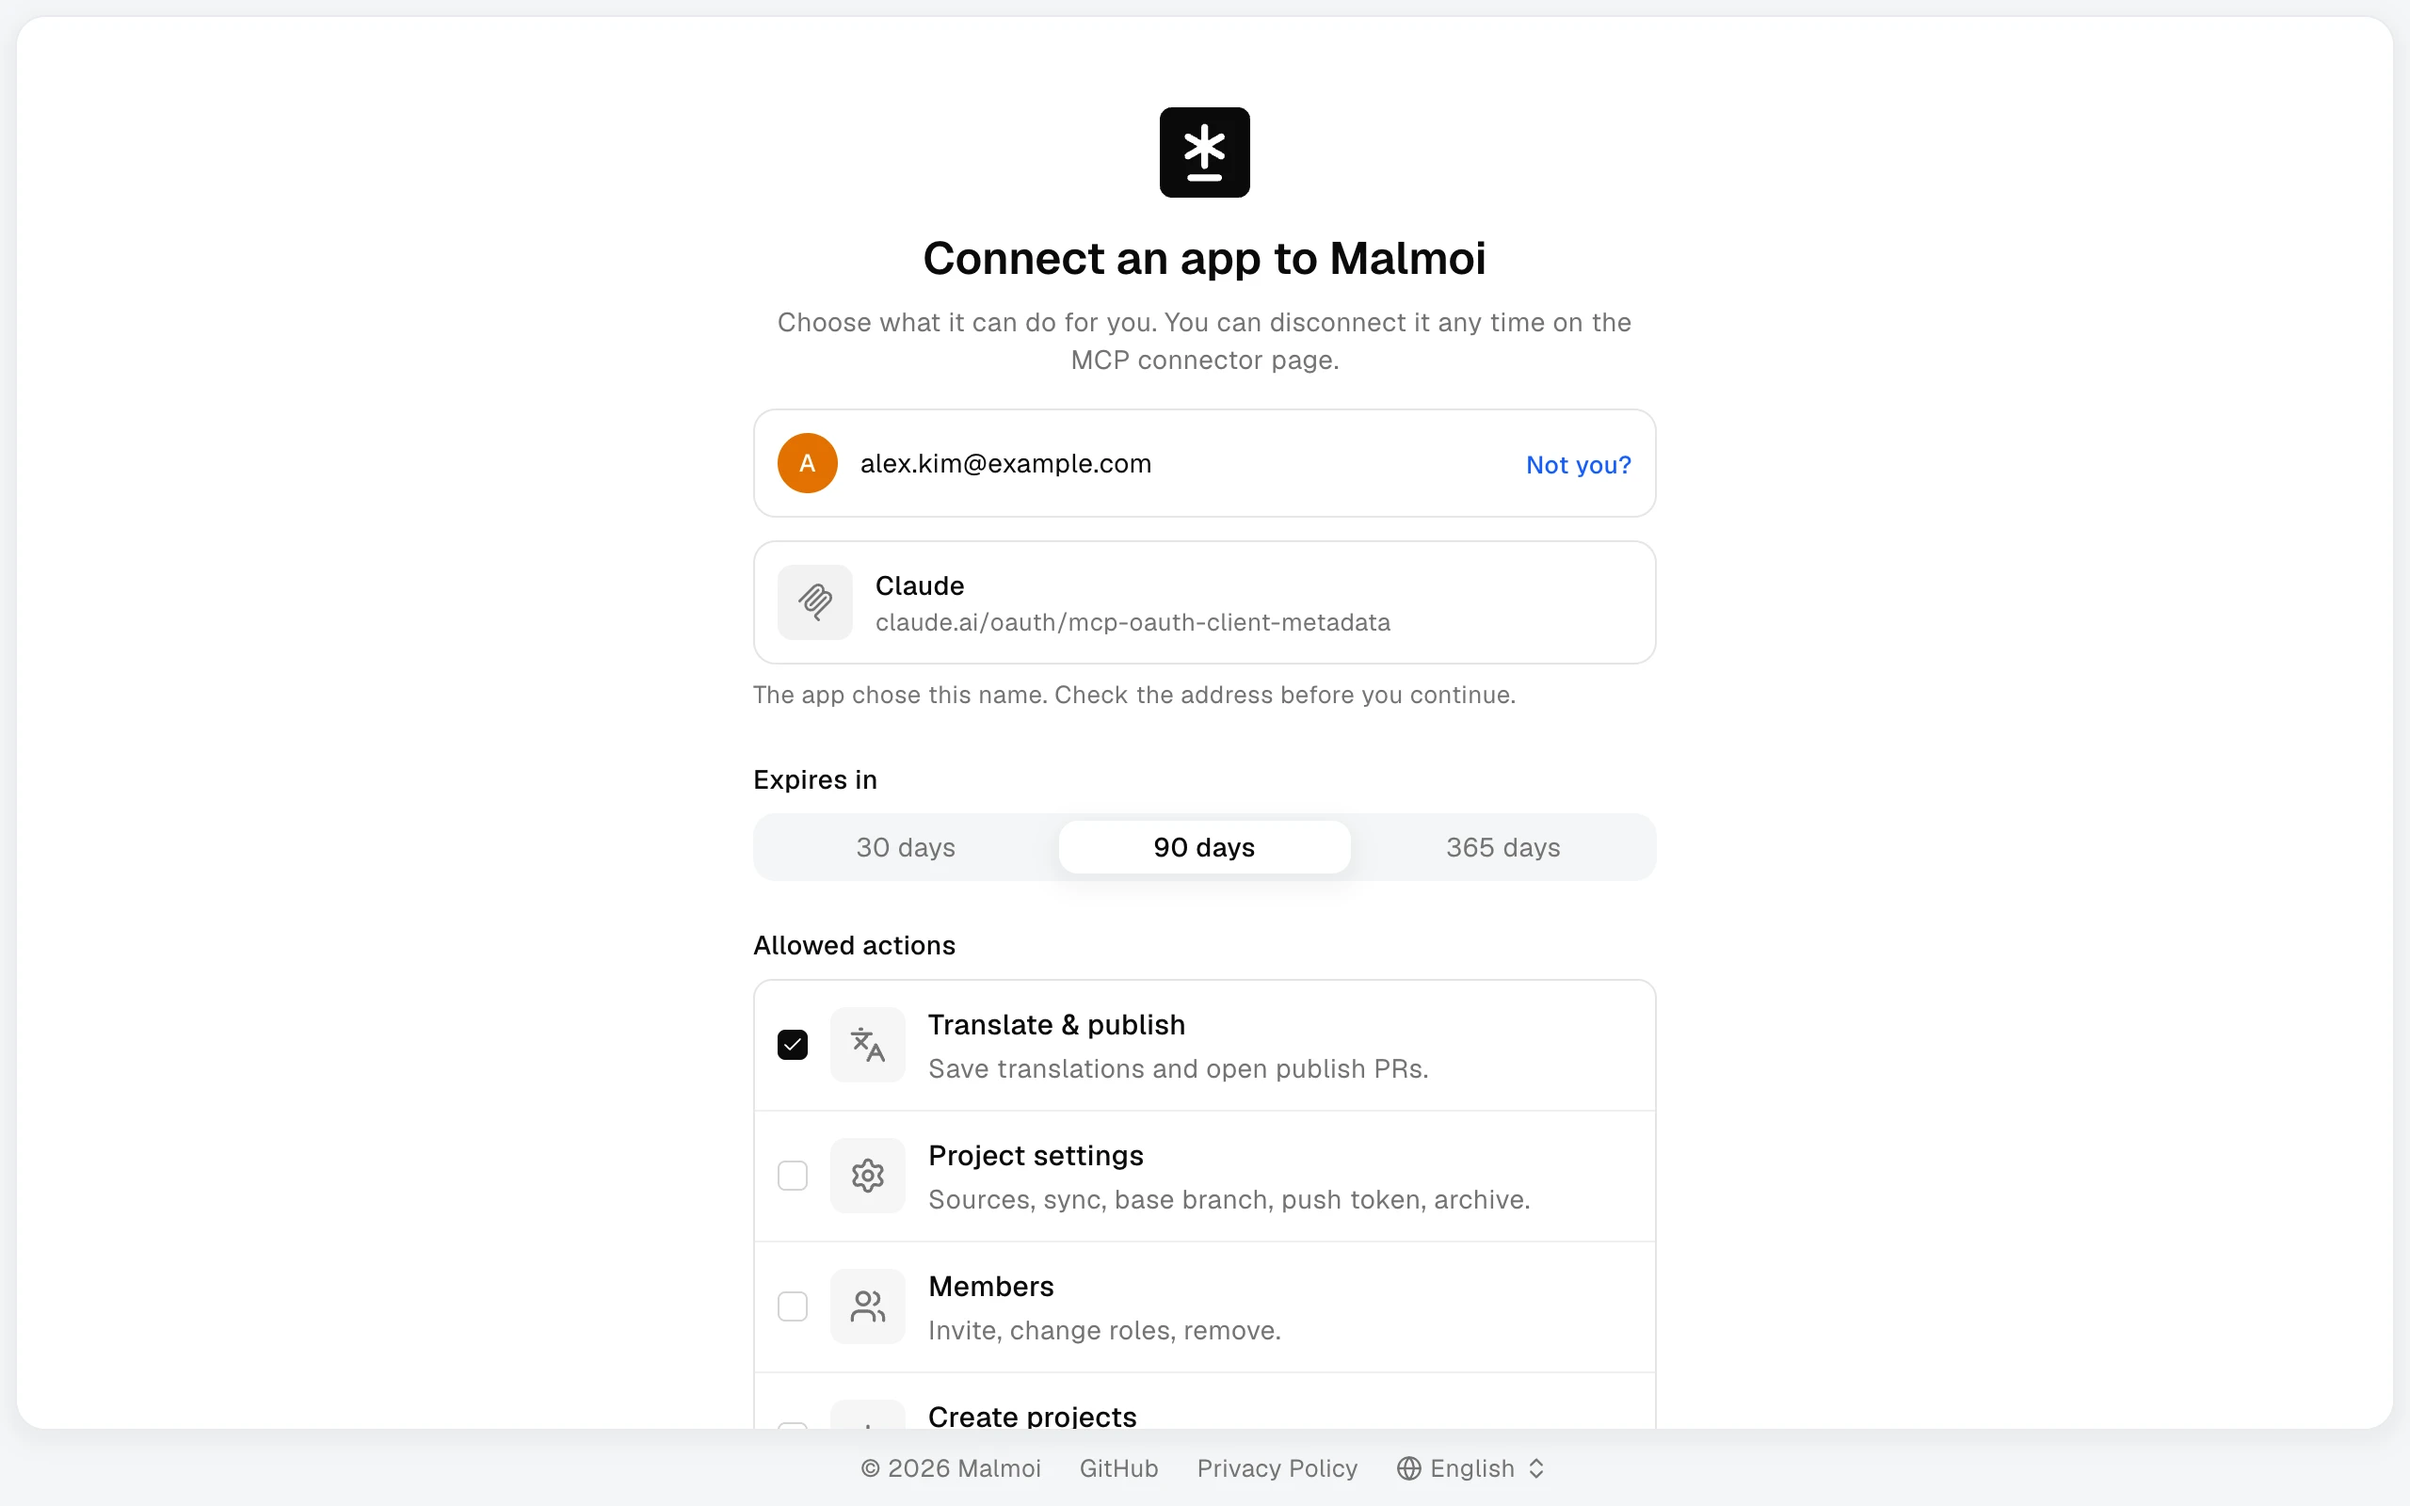
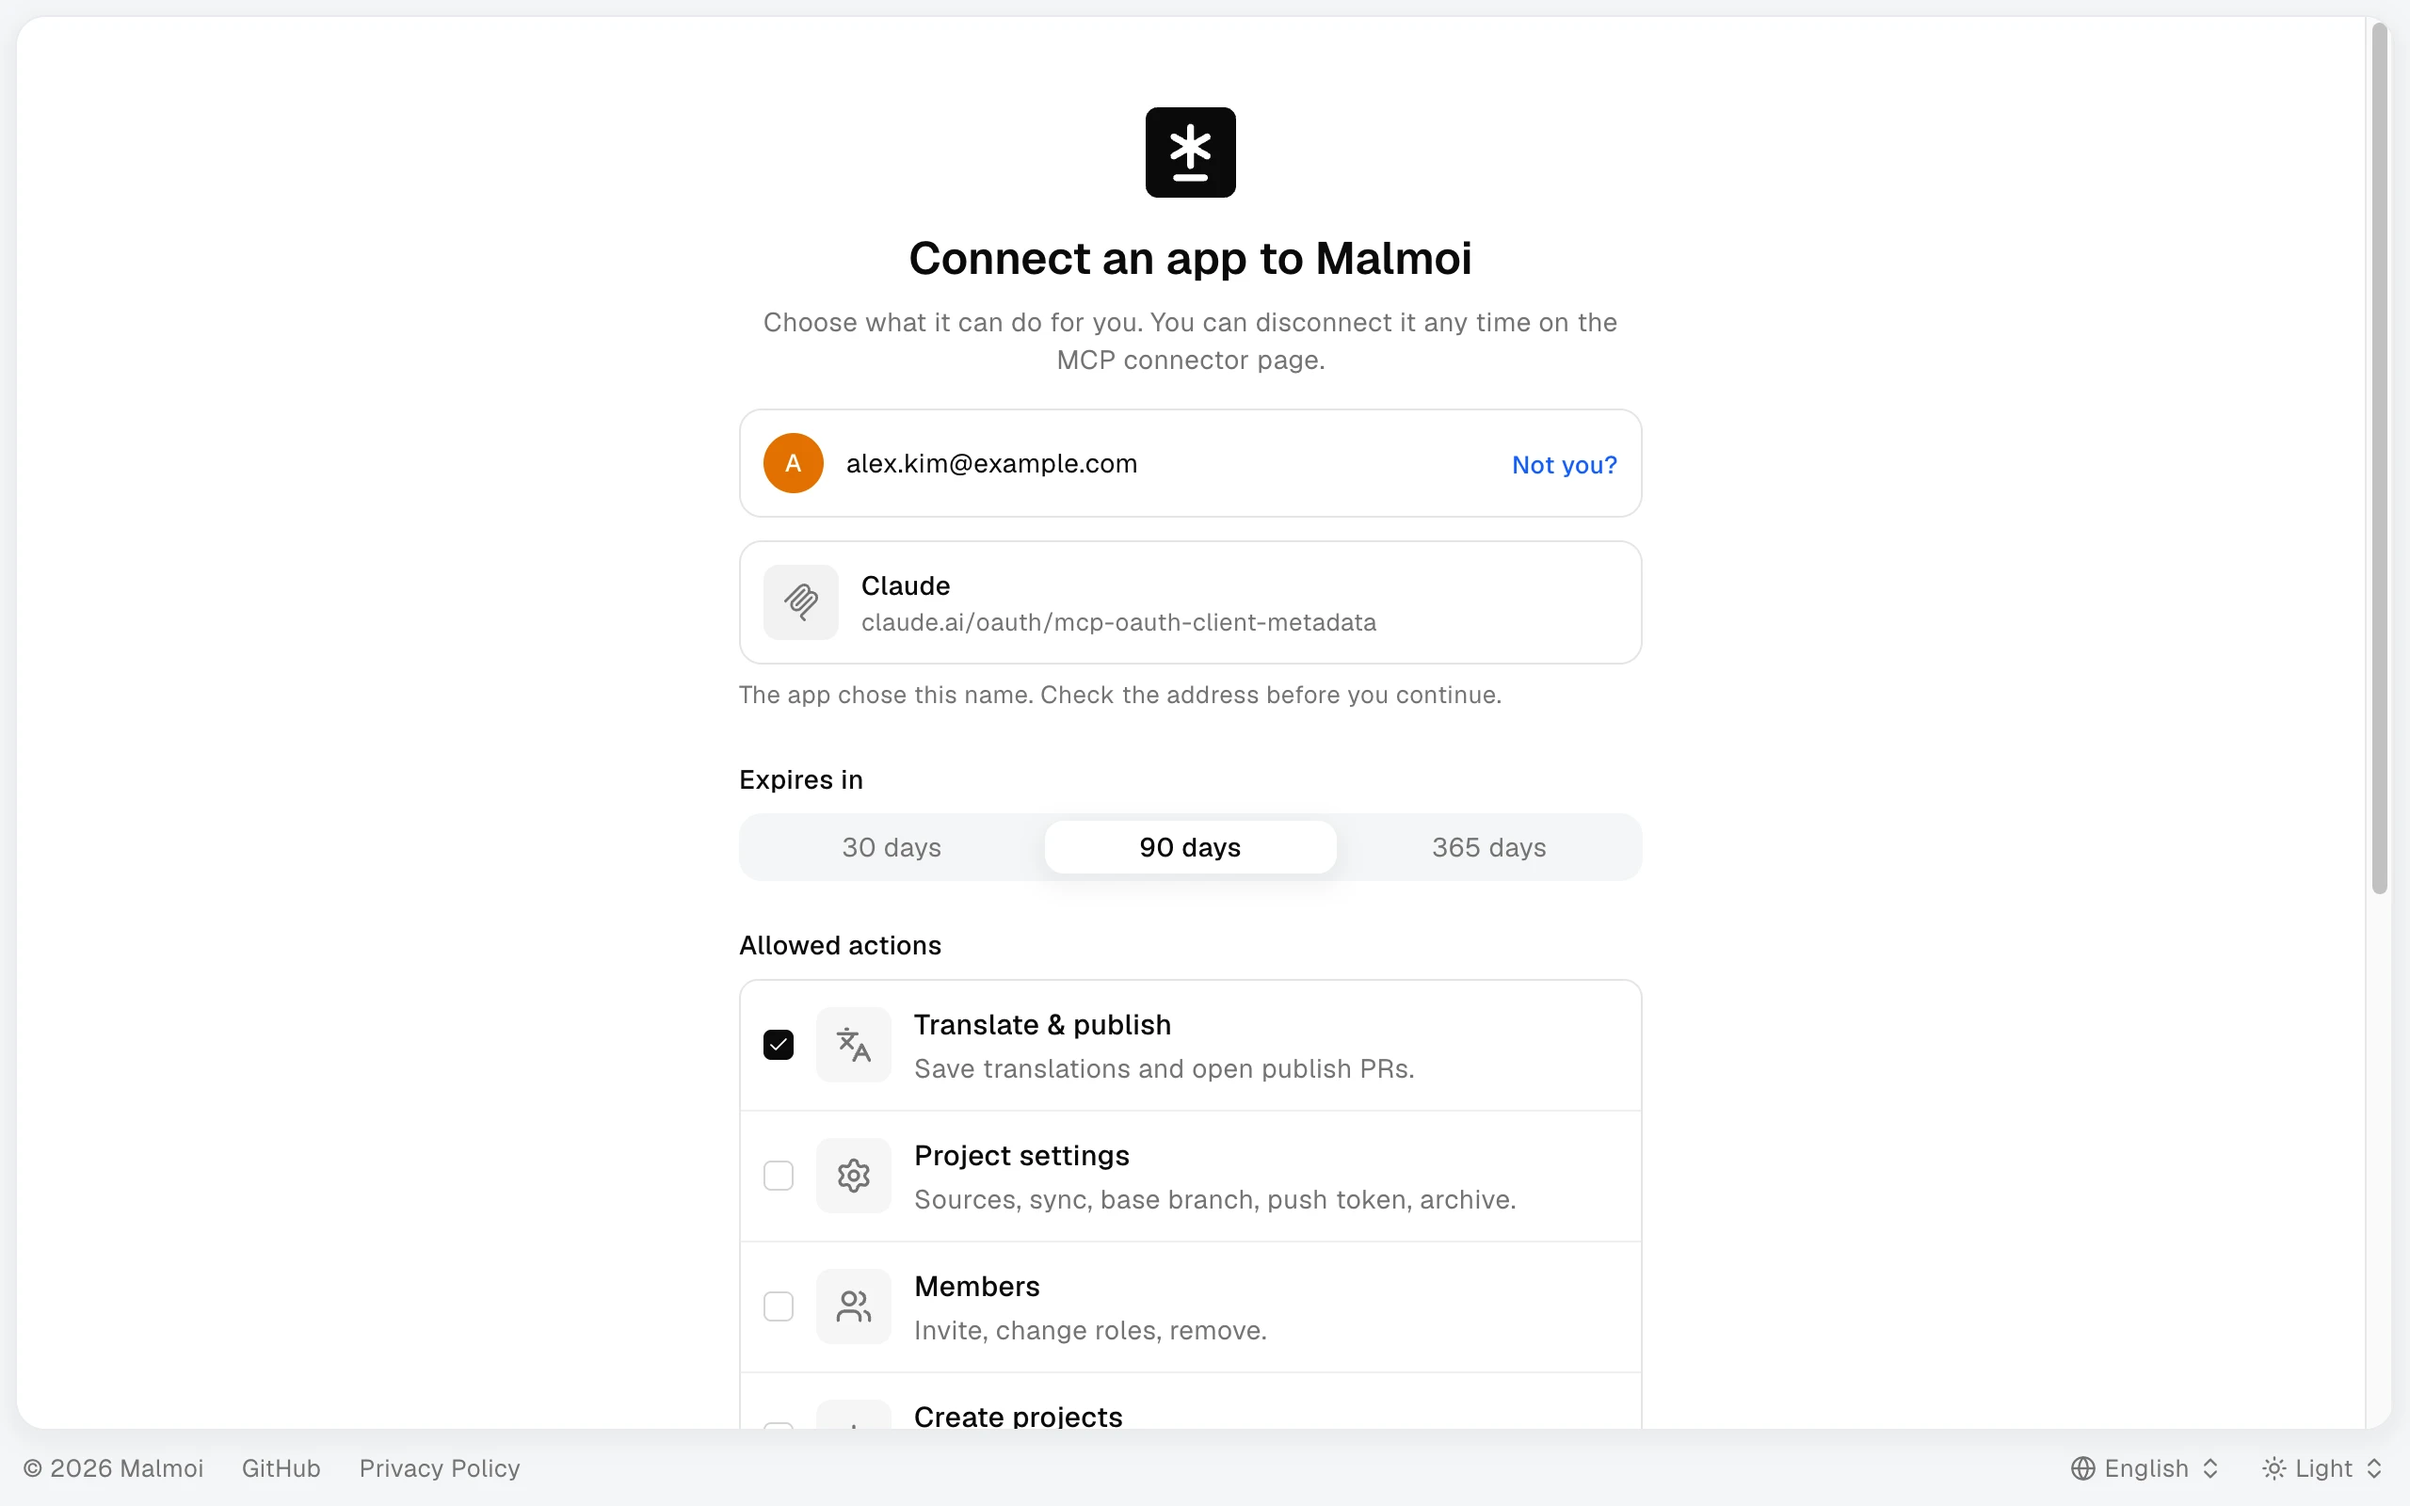
chore(guide): retake oauth-consent shot
The previous cut predated the public footer theme switcher; the new one
matches 3a1afe68 pixel for pixel at 1280x800.

diff --git a/guide/SHOOTING.md b/guide/SHOOTING.md
@@ -145,7 +145,7 @@
 | /guide/preferences-language.webp | app/(edit)/preferences/page.tsx, components/preferences/language-card.tsx, components/preferences/time-zone-card.tsx, components/preferences/preference-select-card.tsx, components/preferences/theme-card.tsx, dict:uiLocale.label, dict:preferences.help | ba45481f1bad944a5b4582d56b5ea6e84e141d6e, 35fad581fb2f5b7b9ab4b854151513f55fa608bd, e89003ad1ccfc47db86ab5c6afc09e6f95d6aefb, 8c375c527167fc1b4975c5f24916dea854f41f2e, 083ee9575152faf792fed1a0abfa5e105a670c46, 89b86ab0e66f527166d98df92ddbcf5416ed58f6, 7a750458e565a71d07b3e10a45654499a58c2673 | 2560x1600 |
 | /guide/mcp-create-token.webp | components/mcp/token-modal.tsx, components/mcp/token-grant-fields.tsx | c96820a9c8869d021052c5873b0404cfc8e3e7b4, ad7e6129db1f932a7d9ef42b0d18756abe81552f | 2560x1600 |
 | /guide/mcp-connector.webp | components/mcp/connected-apps-card.tsx, components/mcp/token-card.tsx | 369d43ab9dd9dc50045d250315813c6dba07c0ea, 0f417f11f0c5c8dc43c709919590561c6e74cf8d | 2560x1600 |
-| /guide/oauth-consent.webp | app/oauth/authorize/page.tsx, components/oauth/consent-panel.tsx, components/oauth/app-card.tsx, components/mcp/token-grant-fields.tsx | 73741761830f79061e3c209455b926c561aa3518, 094cd617e29acf6e4428fa6caf567e2c6d826556, f84a8047e035ed76fe1411941a3c8086844c4455, ad7e6129db1f932a7d9ef42b0d18756abe81552f | 2560x1600 |
+| /guide/oauth-consent.webp | app/oauth/authorize/page.tsx, components/oauth/consent-panel.tsx, components/oauth/app-card.tsx, components/mcp/token-grant-fields.tsx | e838a660b030cfd1a10c80729ef68068e3449581, 6dbe67b7adc44b561d2d6eda73322f83e93e8cae, f84a8047e035ed76fe1411941a3c8086844c4455, ad7e6129db1f932a7d9ef42b0d18756abe81552f | 2560x1600 |
 | /guide/create-repository.webp | components/onboarding/new-project.tsx, components/onboarding/steps/repo.tsx | 303e1a6bbb4e299066db1effde59319a49b307a6, 43919601691a4bebe755a3d855d65ab6ef213059 | 2560x1600 |
 | /guide/create-files.webp | components/onboarding/new-project.tsx, components/onboarding/steps/files.tsx | 303e1a6bbb4e299066db1effde59319a49b307a6, ff459d94bea6ac9e53516e39b98c4235cbc8a6d4 | 2560x1600 |
 | /guide/create-name.webp | components/onboarding/new-project.tsx, components/onboarding/steps/naming.tsx | 303e1a6bbb4e299066db1effde59319a49b307a6, f6f81681dddbc2e660011c6f91fe10711766473b | 2560x1600 |
@@ -205,3 +205,4 @@
 - 2026-10-09 sidebar-projects G(프로젝트 밖 화면의 LNB에 프로젝트 목록 구역 — 앞 5개 + `New project`, 지휘자 결정 D8) — **프로젝트 밖 컷 9장 재촬영**: `account` · `preferences-language` · `mcp-connector`(OWNER) · `create-repository` · `create-files` · `create-name` · `create-ready`(OWNER, `/projects/new`의 Dim 뒤 셸) · `inbox-page` · `mcp-create-token`(EDITOR). **재촬영 없이 SHA만 갱신 2**: `inbox-open`(`attention-inbox.tsx`가 `LiveStatus`를 `components/shell/live-status.tsx`로 옮긴 리팩터 — 드롭다운 화면 불변이고 프로젝트 라우트에서 찍은 컷이라 이번 변경 밖) · `footer-language-menu`(`locale-switcher.tsx` 주석 한 줄 — 둘 다 이번 변경 전의 기존 stale). **그대로 둔 것**: 프로젝트 라우트 컷 전부와 README `hero`·`logs`(프로젝트 라우트는 불변 — 완료 조건 6), `push-token-secret`·`actions-policy`(GitHub 화면), `accept-invitation`·`oauth-consent`(셸 밖), `footer-language-menu`(공개 셸, LNB 없음). 매핑 소스·치수는 그대로다(셸은 소스로 올리지 않는다 — 위 규칙). 셋업: OWNER 계정 테마 `dark` → UI로 `system` + `prefers-color-scheme: light` 에뮬레이션 → 끝나고 UI로 `dark` 복원 · 마스킹은 위 목록 구역 규칙 + 기존 OWNER/EDITOR 치환 · `mcp-connector`는 가짜 `OAuthConnection` 행 둘(id `sp-gs-*`) → 촬영 뒤 삭제(0→0) · `create-ready`는 벽 절 절차대로 일회용 프로젝트(`i18n-format-check` · dev · `locales/{locale}.yml` · `Acme web`/`sp-shot-tmp`)를 UI로 만들어 토큰 input을 43자 가짜 값으로 바꾸고 `api-url` 1줄 제거 · `group:`의 주소를 `acme-web`으로 치환해 찍은 뒤 id(`d5c0a16a-…`)로 지웠다(사건 3 · 번역 28 · 키 10 · 로케일 3 · 멤버 1 · 표면 1 · 프로젝트 1; 일회용 slug는 `malmoi` 뒤에 정렬돼 목록 구역 앞 5개에 들지 않았다) · `create-*` ①–③은 Create project를 누르지 않았다(운영자 면제로 `/projects/new` 직접 진입) · `inbox-page`는 `bugshot-i18n-test-qa`의 `_locales`에 `import-failed`(now) · `namespaces`에 `partial-import`(2h 전)를 심고 EDITOR `checkout.submit` fr `Passer la commande`를 저장한 뒤 `attentionSeenAt`을 NULL로 두고 찍었다 → 표시 NULL 복원 · 값을 빈 칸으로 재저장 → Publish(`Nothing differs` → `Nothing changed in the files`) · EDITOR `attentionSeenAt` `2026-10-08 17:31:53.465`(`::text` 원문) → NULL → 같은 원문으로 복원. 전후 대조: 미전달 `qa-sar-disposable` 1(원래 있던 것) 외 0, OAuth 연결 0→0, 프로젝트 9→9, 미수락 초대 16(이번 세션에 만들지 않았다), `TranslationSurface` 실패 표시 전부 NULL, 전체 사건 681→684·`acme-web` 55→58(편집·재저장·Publish), 나머지 프로젝트 사건 그대로, GitHub 쓰기 없음. 로그인 전환: OWNER(GitHub) 세션 → 로그아웃 → Google 계정 선택 화면에서 EDITOR → 촬영 → 로그아웃 → GitHub `Continue as`로 OWNER 복귀. ⚠ **새로 밟은 것**: ① 목록 구역의 썸네일 이미지 둘은 `<img>`라 텍스트 치환이 못 바꾼다 — 기본 타일로 갈아 끼운다. ② 목록 구역 이름은 `truncate`라 긴 QA 이름은 치환 전 말줄임표로 그려진다 — 치환 이름이 짧아 컷엔 안 보인다. ③ 사이드바 Projects 배지는 보관 제외 전체 수(OWNER 9, EDITOR 2)이고 구역은 앞 5개만 보인다 — 그대로 찍었다. ④ `inbox-page`의 실패 행(`extension` 그룹)이 맨 위에 서려면 실패 시각이 미전송 편집 저장보다 **늦어야** 한다 — 심기를 편집 저장 뒤에 한다(앞에 심으면 Acme web 그룹이 위로 올라간다). ⑤ `.env.local`을 읽는 DB 스크립트(`sql.mjs`·`fail-seed.mjs`)는 리포 루트에서 돌린다(경로 상대).
 - 2026-10-10 optional-login-providers — `account`·`accept-invitation`·`oauth-consent` **SHA만 갱신**(재촬영 없음). 버튼·수단 행이 켜진 공급자로 걸러지지만 hosted는 두 쌍이라 화면이 같다. `oauth-consent`도 SHA만 갱신했다(fix1) — 동의 단계 컷이고 바뀐 것은 로그인 단계 버튼(`signInButtons`)뿐이다.
 - 2026-10-11 responsive-public QA — `accept-invitation`·`inbox-open` **SHA만 갱신**(재촬영 없음). 이번 변경(`project-card.tsx` 식별자 줄바꿈 · `auth-layout.tsx` 좁은 폭 하한·장식 · `attention-inbox.tsx` `lg` 미만 시트·`aria-expanded`)은 1280에서 화면을 바꾸지 않는다 — 변경 전 커밋(`3a1afe68`)과 1280×800 렌더의 요소 rect·padding·색을 대조해 초대 화면 차이 0, Inbox 드롭다운 차이 0을 확인했다. ⚠ **`oauth-consent`는 그대로 stale로 둔다** — `consent-panel.tsx`의 sticky CTA가 1280에서도 서서 컷이 달라지는데(Deny·Authorize 묶음이 목록 위에 뜨고 그 아래로 마지막 행이 비친다), 그 모양을 1280 회귀로 이슈에 올렸다. 수정 뒤 재촬영한다.
+- 2026-10-11 responsive-public QA 재확인 1 — `oauth-consent` **재촬영**(2560×1600, WebP quality 90). #221 수정(동의 CTA sticky는 `lg` 미만만) 뒤 1280×800 동의 화면이 변경 전 커밋 `3a1afe68`과 **픽셀 차이 0**이라 이번 런이 바꾼 화면은 없다. 그런데 기존 컷이 그 기준과도 달랐다(이번 런 전 변경 — Auth 푸터가 가운데 `English` 하나에서 왼쪽 링크 묶음 + 오른쪽 언어·테마 스위처로 바뀌었고 본문이 가로로 약 7.5px 어긋나 있었다). SHA만 갱신하면 그 어긋남이 굳으므로 다시 찍었다. 셋업은 전과 같다: claude.ai CIMD(`claude.ai/oauth/mcp-oauth-client-metadata`, 콜백 `claude.ai/api/mcp/auth_callback`) authorize 요청, Authorize 누르지 않음, Translate & publish 하나 체크, 만료 90 days(기본), 이메일 → `alex.kim@example.com`, 아바타 이니셜 → `A`(amber 폴백 그대로), 테마 라이트(`data-theme` 고정).
